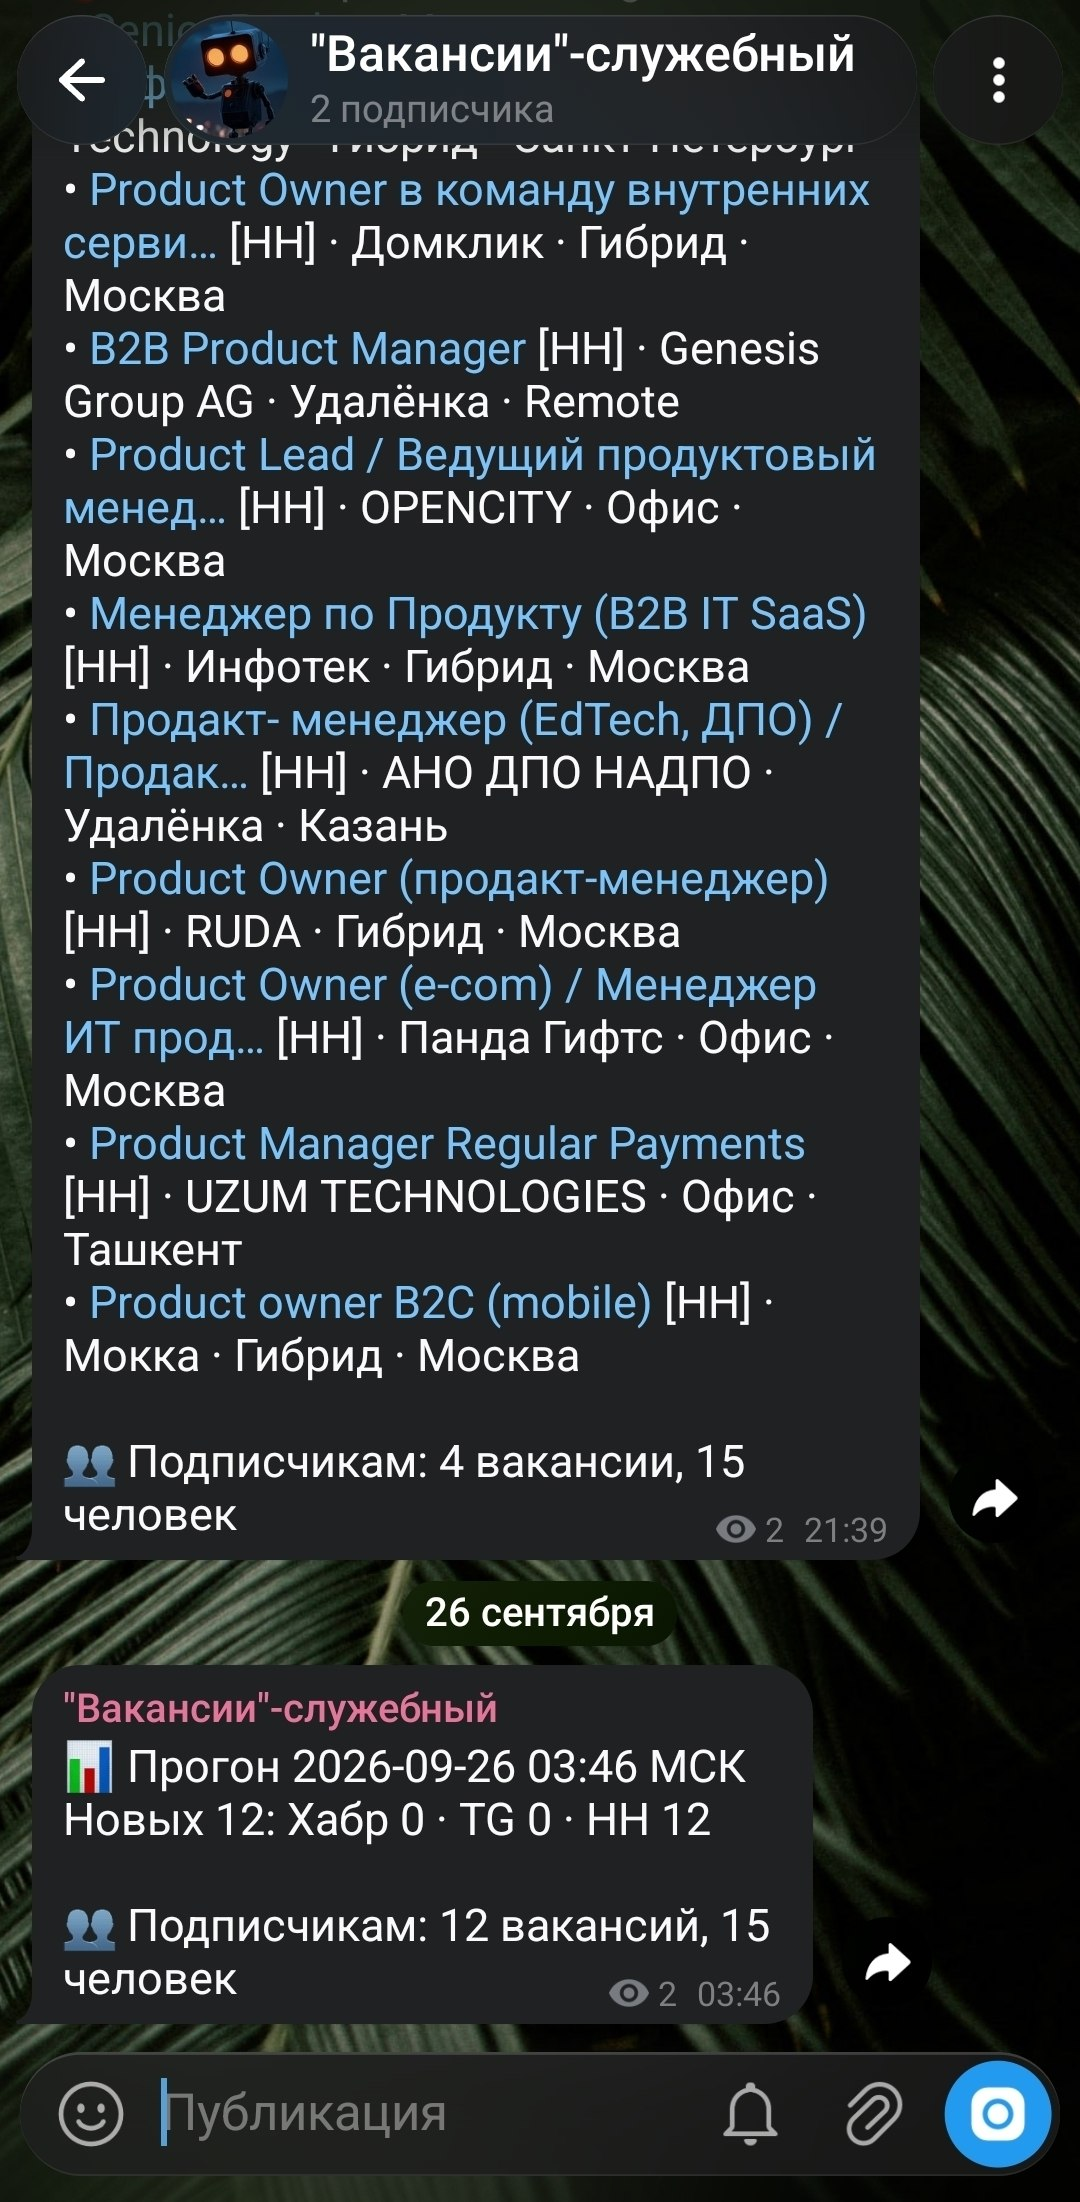
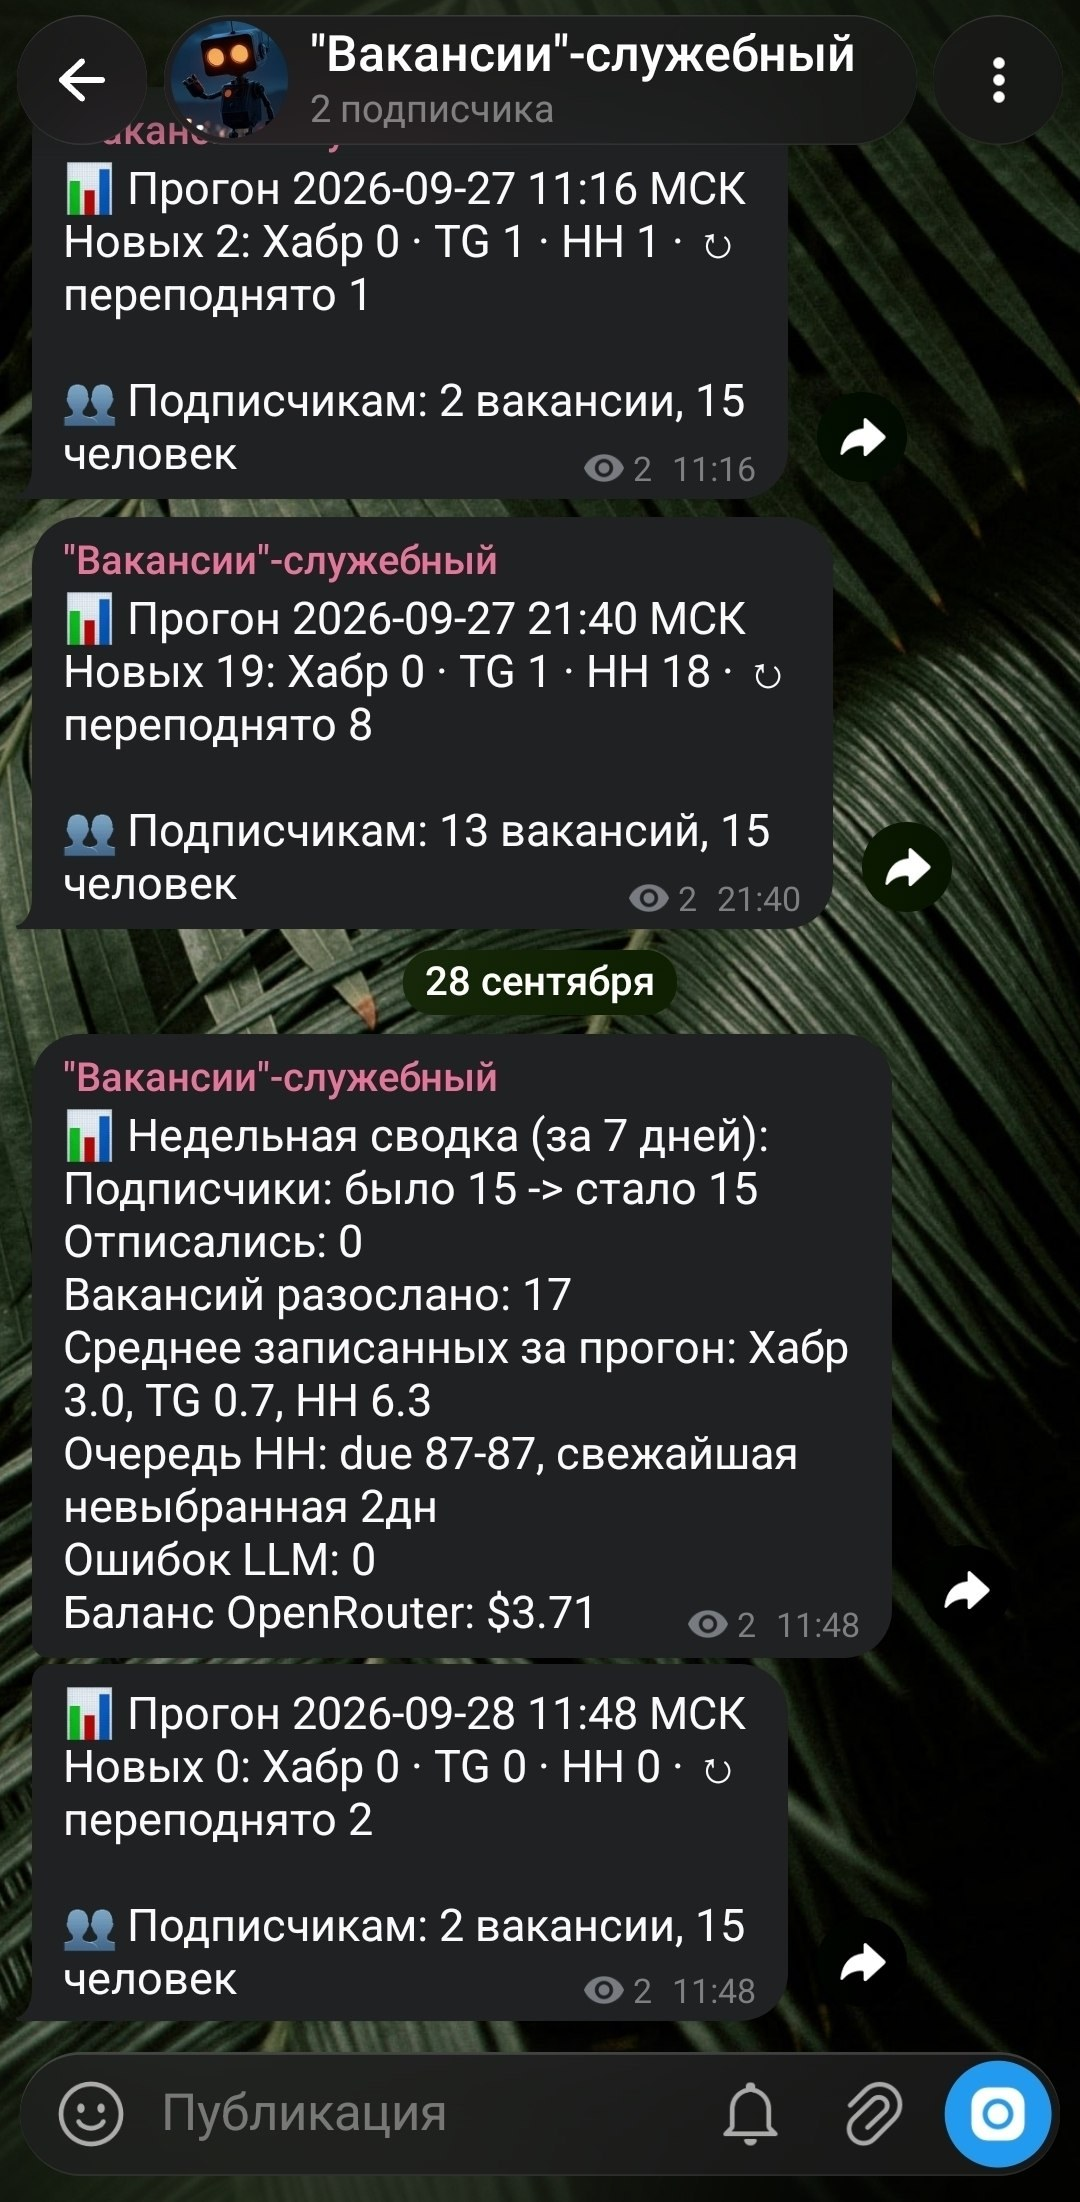
README: новый скриншот служебного канала с недельной сводкой

Changed region(s): [[0.0306, 0.0, 0.8861, 0.9264], [0.8861, 0.6485, 0.9472, 0.7411], [0.7944, 0.8647, 0.8556, 0.8955]]

diff --git a/README.md b/README.md
@@ -159,11 +159,11 @@
 
 **Сообщения о сбоях.** Раньше падение скрипта в облаке можно было заметить, только заглянув в логи. Теперь оно приходит в телеграм.
 
-<img src="docs/bot-alerts.jpg" width="300" alt="Служебный канал: сверху старый формат со списком вакансий, снизу нынешняя сводка прогона цифрами">
+<img src="docs/bot-alerts.jpg" width="300" alt="Служебный канал: сводки прогонов цифрами и недельная сводка по понедельникам">
 
-*Служебный канал. Сверху - как было: после каждого прогона список всех новых вакансий. Снизу - как стало: одна беззвучная сводка цифрами - сколько новых и из каких источников, сколько ушло подписчикам.*
+*Служебный канал. После каждого прогона - одна беззвучная сводка цифрами: сколько новых и из каких источников, сколько переподнято, сколько ушло подписчикам. По понедельникам - недельная: подписчики и отписки, сколько разослано, средний приток по источникам, очередь hh.ru, ошибки нейросети и остаток на счету.*
 
-Список казался полезным, но на деле дублировал то, что я и так получаю в бота как подписчик. Каждый прогон - длинное сообщение со звуком, и среди них легко пропустить настоящую тревогу. Сократил до цифр: они показывают, жив ли конвейер и не выдохся ли какой-то источник. Со звуком теперь приходит только то, что требует действия: сбои, отписки, проблемы с приёмом сообщений ботом.
+Раньше после каждого прогона сюда приходил список всех новых вакансий. Он казался полезным, но на деле дублировал то, что я и так получаю в бота как подписчик. Каждый прогон - длинное сообщение со звуком, и среди них легко пропустить настоящую тревогу. Сократил до цифр: они показывают, жив ли конвейер и не выдохся ли какой-то источник. Со звуком теперь приходит только то, что требует действия: сбои, отписки, проблемы с приёмом сообщений ботом.
 
 **Проверка приёма сообщений.** Однажды бот перестал получать входящие: подборки уходили как обычно, а новые люди не могли подключиться, и ни одна проверка этого не заметила - та же беззвучная поломка. Теперь каждый прогон проверяет, что бот принимает сообщения, и при сбое присылает тревогу.
 
